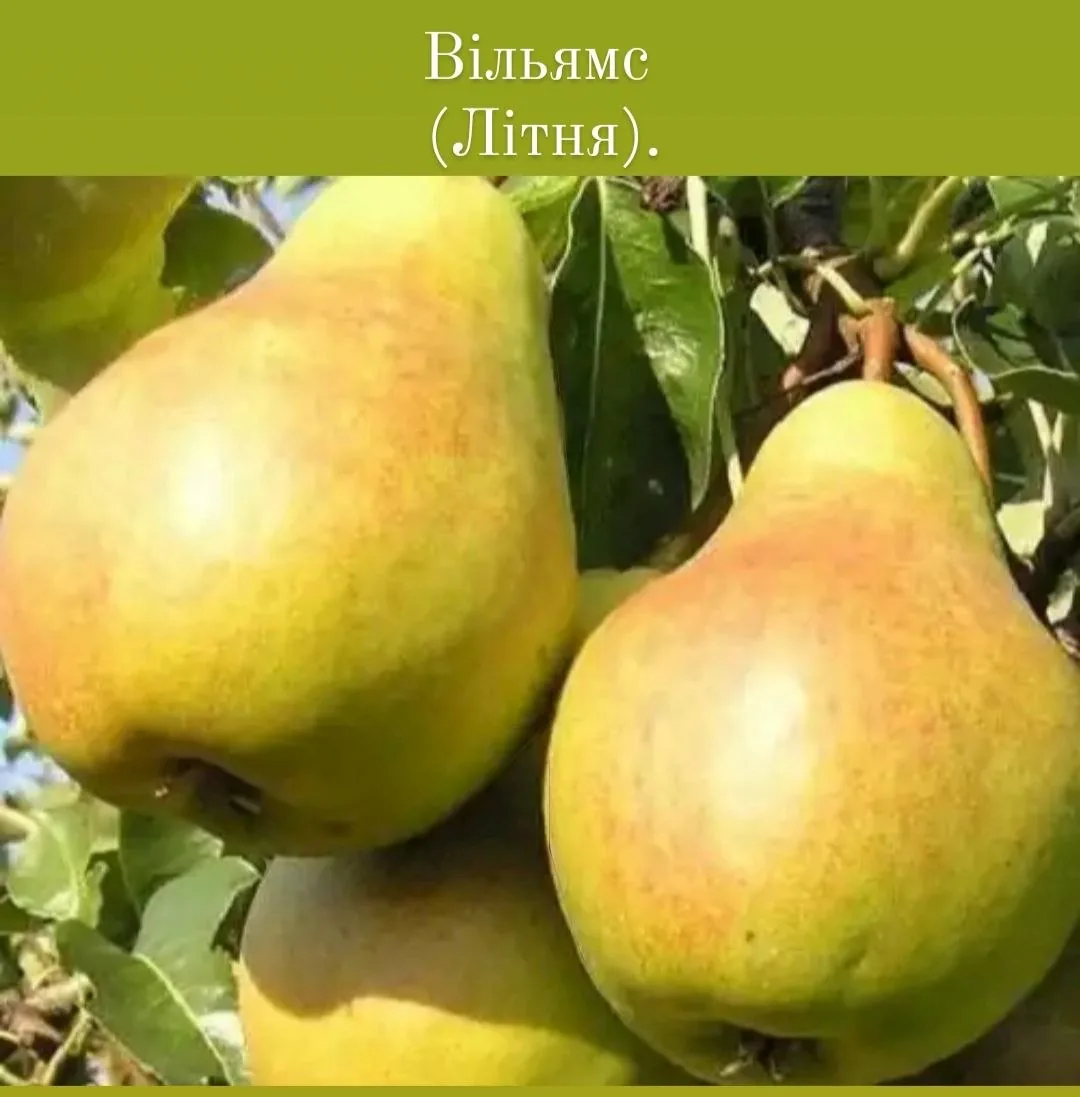
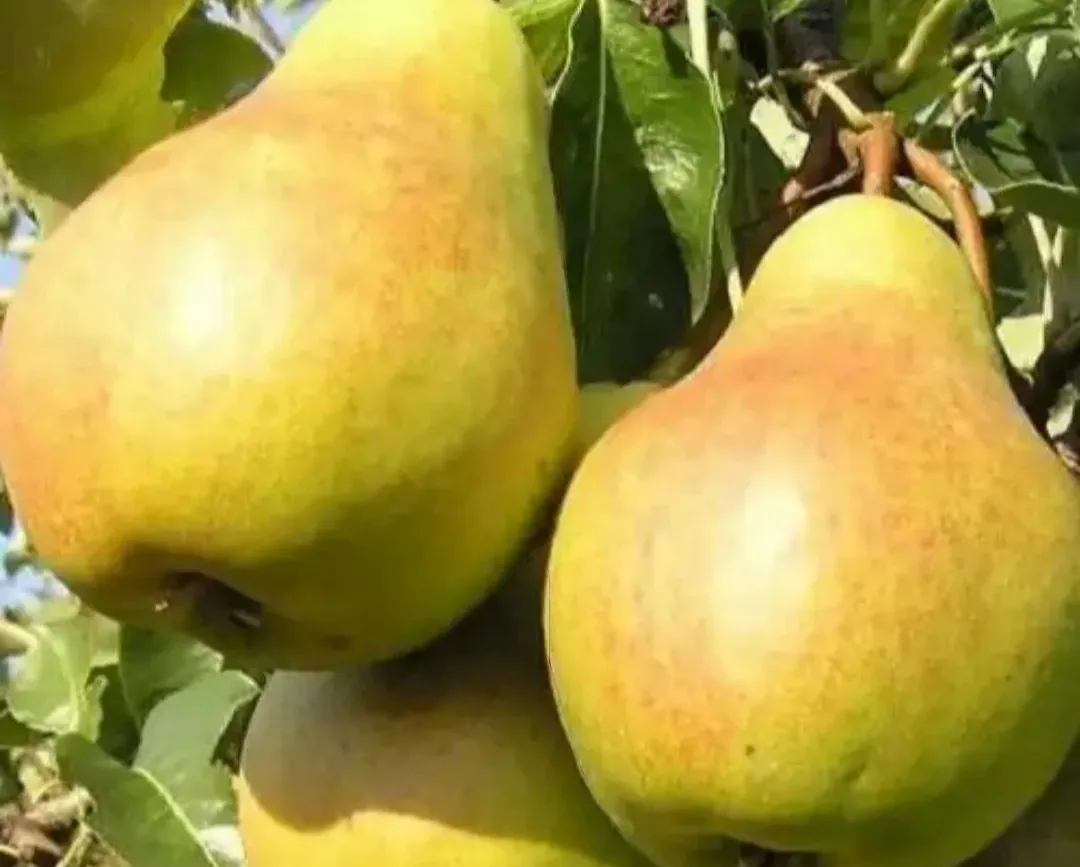
Trim title strips from pear photos and pch-6

diff --git a/catalog.js b/catalog.js
@@ -513,7 +513,7 @@ const CATALOG_DATA = {
       "desc": "Сорт з ніжним маслянистим десертним смаком і високою врожайністю.",
       "inStock": true,
       "badge": "100% СОРТОВИЙ",
-      "image": "images/products/customer_pear-1_photo_26_2026-11-20_23-57-47.webp?v=5"
+      "image": "images/products/customer_pear-1_photo_26_2026-11-20_23-57-47.webp?v=6"
     },
     {
       "id": "pear-2",
@@ -524,7 +524,7 @@ const CATALOG_DATA = {
       "desc": "Подовжені красиві плоди з яскравим рум’янцем. Хрустка, надзвичайно солодка.",
       "inStock": true,
       "badge": "100% СОРТОВИЙ",
-      "image": "images/products/customer_pear-2_photo_25_2026-11-20_23-57-47.webp?v=5"
+      "image": "images/products/customer_pear-2_photo_25_2026-11-20_23-57-47.webp?v=6"
     },
     {
       "id": "pear-3",
@@ -535,7 +535,7 @@ const CATALOG_DATA = {
       "desc": "Зимовий сорт відмінної транспортабельності. Зберігається до весни без втрати соковитості.",
       "inStock": true,
       "badge": "100% СОРТОВИЙ",
-      "image": "images/products/customer_pear-3_photo_24_2026-11-20_23-57-47.webp?v=5"
+      "image": "images/products/customer_pear-3_photo_24_2026-11-20_23-57-47.webp?v=6"
     },
     {
       "id": "pear-4",
@@ -546,7 +546,7 @@ const CATALOG_DATA = {
       "desc": "Італійський високоврожайний сорт з ніжною танучою кремовою м’якоттю.",
       "inStock": true,
       "badge": "100% СОРТОВИЙ",
-      "image": "images/products/customer_pear-4_photo_23_2026-11-20_23-57-47.webp?v=5"
+      "image": "images/products/customer_pear-4_photo_23_2026-11-20_23-57-47.webp?v=6"
     },
     {
       "id": "pear-5",
@@ -557,7 +557,7 @@ const CATALOG_DATA = {
       "desc": "Одна з найкращих зимових груш у світі. Великі плоди, маслянистий медовий смак.",
       "inStock": true,
       "badge": "100% СОРТОВИЙ",
-      "image": "images/products/customer_pear-5_photo_22_2026-11-20_23-57-47.webp?v=5"
+      "image": "images/products/customer_pear-5_photo_22_2026-11-20_23-57-47.webp?v=6"
     },
     {
       "id": "pear-6",
@@ -568,7 +568,7 @@ const CATALOG_DATA = {
       "desc": "Класична рання груша. Соковита, солодка, буквально тане в роті.",
       "inStock": true,
       "badge": "100% СОРТОВИЙ",
-      "image": "images/products/customer_pear-6_photo_21_2026-11-20_23-57-47.webp?v=5"
+      "image": "images/products/customer_pear-6_photo_21_2026-11-20_23-57-47.webp?v=6"
     },
     {
       "id": "pear-7",
@@ -579,7 +579,7 @@ const CATALOG_DATA = {
       "desc": "Пізньозимовий сорт для тривалого зберігання. Насичений солодкий смак.",
       "inStock": true,
       "badge": "100% СОРТОВИЙ",
-      "image": "images/products/customer_pear-7_photo_20_2026-11-20_23-57-47.webp?v=5"
+      "image": "images/products/customer_pear-7_photo_20_2026-11-20_23-57-47.webp?v=6"
     },
     {
       "id": "pear-8",
@@ -590,7 +590,7 @@ const CATALOG_DATA = {
       "desc": "Невибагливий ранній сорт. Жовті плоди з пікантним лимонним ароматом.",
       "inStock": true,
       "badge": "100% СОРТОВИЙ",
-      "image": "images/products/customer_pear-8_photo_19_2026-11-20_23-57-47.webp?v=5"
+      "image": "images/products/customer_pear-8_photo_19_2026-11-20_23-57-47.webp?v=6"
     },
     {
       "id": "pear-9",
@@ -601,7 +601,7 @@ const CATALOG_DATA = {
       "desc": "Еталон світового смаку груші Дюшес. Мускатний десертний аромат.",
       "inStock": true,
       "badge": "100% СОРТОВИЙ",
-      "image": "images/products/customer_pear-9_photo_18_2026-11-20_23-57-47.webp?v=5"
+      "image": "images/products/customer_pear-9_photo_18_2026-11-20_23-57-47.webp?v=6"
     },
     {
       "id": "pear-10",
@@ -612,7 +612,7 @@ const CATALOG_DATA = {
       "desc": "Старовинний французький сорт. Солодка щільна м’якоть, рясний урожай.",
       "inStock": true,
       "badge": "100% СОРТОВИЙ",
-      "image": "images/products/customer_pear-10_photo_15_2026-11-20_23-57-47.webp?v=5"
+      "image": "images/products/customer_pear-10_photo_15_2026-11-20_23-57-47.webp?v=6"
     },
     {
       "id": "pear-11",
@@ -623,7 +623,7 @@ const CATALOG_DATA = {
       "desc": "Відомий комерційний сорт. Стабільне регулярне плодоношення, дуже солодка.",
       "inStock": true,
       "badge": "100% СОРТОВИЙ",
-      "image": "images/products/customer_pear-11_photo_14_2026-11-20_23-57-47.webp?v=5"
+      "image": "images/products/customer_pear-11_photo_14_2026-11-20_23-57-47.webp?v=6"
     },
     {
       "id": "pear-12",
@@ -634,7 +634,7 @@ const CATALOG_DATA = {
       "desc": "Компактне деревце для невеликих садів. Великі смачні осінні плоди.",
       "inStock": true,
       "badge": "100% СОРТОВИЙ",
-      "image": "images/products/customer_pear-12_photo_17_2026-11-20_23-57-47.webp?v=5"
+      "image": "images/products/customer_pear-12_photo_17_2026-11-20_23-57-47.webp?v=6"
     },
     {
       "id": "pear-13",
@@ -645,7 +645,7 @@ const CATALOG_DATA = {
       "desc": "Займає мінімум місця (до 1 м ширини). Рясний медовий урожай.",
       "inStock": true,
       "badge": "100% СОРТОВИЙ",
-      "image": "images/products/customer_pear-13_photo_16_2026-11-20_23-57-47.webp?v=5"
+      "image": "images/products/customer_pear-13_photo_16_2026-11-20_23-57-47.webp?v=6"
     },
     {
       "id": "pear-14",
@@ -656,7 +656,7 @@ const CATALOG_DATA = {
       "desc": "Екзотична яблуко-груша (Наші). Хрустка, освіжаюча, неймовірно соковита.",
       "inStock": true,
       "badge": "100% СОРТОВИЙ",
-      "image": "images/products/customer_pear-14_photo_27_2026-11-20_23-57-47.webp?v=5"
+      "image": "images/products/customer_pear-14_photo_27_2026-11-20_23-57-47.webp?v=6"
     },
     {
       "id": "pear-15",
@@ -667,7 +667,7 @@ const CATALOG_DATA = {
       "desc": "Бронзова округла азіатська груша з ніжним екзотичним квітковим смаком.",
       "inStock": true,
       "badge": "100% СОРТОВИЙ",
-      "image": "images/products/customer_pear-15_photo_28_2026-11-20_23-57-47.webp?v=5"
+      "image": "images/products/customer_pear-15_photo_28_2026-11-20_23-57-47.webp?v=6"
     },
     {
       "id": "pch-1",
@@ -700,7 +700,7 @@ const CATALOG_DATA = {
       "desc": "Перевірений український сорт, чудово зимує в усіх регіонах України.",
       "inStock": true,
       "badge": "100% СОРТОВИЙ",
-      "image": "images/products/customer_pch-3_photo_44_2026-11-20_23-57-03.webp?v=5"
+      "image": "images/products/customer_pch-3_photo_44_2026-11-20_23-57-03.webp?v=6"
     },
     {
       "id": "pch-4",
@@ -711,7 +711,7 @@ const CATALOG_DATA = {
       "desc": "Американський сорт з насиченим кармінним рум’янцем та десертним ароматом.",
       "inStock": true,
       "badge": "100% СОРТОВИЙ",
-      "image": "images/products/customer_pch-4_photo_42_2026-11-20_23-57-03.webp?v=5"
+      "image": "images/products/customer_pch-4_photo_42_2026-11-20_23-57-03.webp?v=6"
     },
     {
       "id": "pch-5",
@@ -722,7 +722,7 @@ const CATALOG_DATA = {
       "desc": "Білом’якотний делікатесний персик без кислинки. Дуже ніжний і солодкий.",
       "inStock": true,
       "badge": "100% СОРТОВИЙ",
-      "image": "images/products/customer_pch-5_photo_41_2026-11-20_23-57-03.webp?v=5"
+      "image": "images/products/customer_pch-5_photo_41_2026-11-20_23-57-03.webp?v=6"
     },
     {
       "id": "pch-6",
@@ -733,7 +733,7 @@ const CATALOG_DATA = {
       "desc": "Світовий стандарт персика. Стабільний урожай, великі смачні плоди.",
       "inStock": true,
       "badge": "100% СОРТОВИЙ",
-      "image": "images/products/customer_pch-6_photo_1_2026-11-20_23-58-03.webp?v=5"
+      "image": "images/products/customer_pch-6_photo_1_2026-11-20_23-58-03.webp?v=6"
     },
     {
       "id": "pch-7",
@@ -744,7 +744,7 @@ const CATALOG_DATA = {
       "desc": "Ексклюзивний білий персик (прозоро-біла м’якоть) з вишуканим смаком.",
       "inStock": true,
       "badge": "100% СОРТОВИЙ",
-      "image": "images/products/customer_pch-7_photo_39_2026-11-20_23-57-03.webp?v=5"
+      "image": "images/products/customer_pch-7_photo_39_2026-11-20_23-57-03.webp?v=6"
     },
     {
       "id": "pch-8",
@@ -755,7 +755,7 @@ const CATALOG_DATA = {
       "desc": "Один із найбільш великоплідних персиків у світі (до 350 г і більше).",
       "inStock": true,
       "badge": "100% СОРТОВИЙ",
-      "image": "images/products/customer_pch-8_photo_38_2026-11-20_23-57-03.webp?v=5"
+      "image": "images/products/customer_pch-8_photo_38_2026-11-20_23-57-03.webp?v=6"
     },
     {
       "id": "pch-9",
@@ -766,7 +766,7 @@ const CATALOG_DATA = {
       "desc": "Канадський сорт найвищої дегустаційної оцінки. Стійкий до кучерявості листя.",
       "inStock": true,
       "badge": "100% СОРТОВИЙ",
-      "image": "images/products/customer_pch-9_photo_37_2026-11-20_23-57-03.webp?v=5"
+      "image": "images/products/customer_pch-9_photo_37_2026-11-20_23-57-03.webp?v=6"
     },
     {
       "id": "pch-10",
@@ -777,7 +777,7 @@ const CATALOG_DATA = {
       "desc": "Гармонійний кисло-солодкий смак, щільна м’якоть, висока транспортабельність.",
       "inStock": true,
       "badge": "100% СОРТОВИЙ",
-      "image": "images/products/customer_pch-10_photo_36_2026-11-20_23-57-03.webp?v=5"
+      "image": "images/products/customer_pch-10_photo_36_2026-11-20_23-57-03.webp?v=6"
     },
     {
       "id": "pch-11",
@@ -788,7 +788,7 @@ const CATALOG_DATA = {
       "desc": "Плоский дисковидний персик з маленькою кісточкою. Медово-солодкий.",
       "inStock": true,
       "badge": "100% СОРТОВИЙ",
-      "image": "images/products/customer_pch-11_photo_34_2026-11-20_23-57-03.webp?v=5"
+      "image": "images/products/customer_pch-11_photo_34_2026-11-20_23-57-03.webp?v=6"
     },
     {
       "id": "pch-12",
@@ -799,7 +799,7 @@ const CATALOG_DATA = {
       "desc": "Гладкий глянцевий нектарин з твердою солодкою м’якоттю пізнього строку.",
       "inStock": true,
       "badge": "100% СОРТОВИЙ",
-      "image": "images/products/customer_pch-12_photo_28_2026-11-20_23-57-03.webp?v=5"
+      "image": "images/products/customer_pch-12_photo_28_2026-11-20_23-57-03.webp?v=6"
     },
     {
       "id": "pch-13",
@@ -810,7 +810,7 @@ const CATALOG_DATA = {
       "desc": "Яскраво-червоний нектарин з ароматною танучою м’якоттю без опушення.",
       "inStock": true,
       "badge": "100% СОРТОВИЙ",
-      "image": "images/products/customer_pch-13_photo_32_2026-11-20_23-57-03.webp?v=5"
+      "image": "images/products/customer_pch-13_photo_32_2026-11-20_23-57-03.webp?v=6"
     },
     {
       "id": "pch-14",
@@ -821,7 +821,7 @@ const CATALOG_DATA = {
       "desc": "Компактний сорт для балкона або вузьких грядок. Солодкі плоди.",
       "inStock": true,
       "badge": "100% СОРТОВИЙ",
-      "image": "images/products/customer_pch-14_photo_30_2026-11-20_23-57-03.webp?v=5"
+      "image": "images/products/customer_pch-14_photo_30_2026-11-20_23-57-03.webp?v=6"
     },
     {
       "id": "pch-15",
@@ -832,7 +832,7 @@ const CATALOG_DATA = {
       "desc": "Стовбурове мініатюрне деревце з великими смачними персиками.",
       "inStock": true,
       "badge": "100% СОРТОВИЙ",
-      "image": "images/products/customer_pch-15_photo_31_2026-11-20_23-57-03.webp?v=5"
+      "image": "images/products/customer_pch-15_photo_31_2026-11-20_23-57-03.webp?v=6"
     },
     {
       "id": "apr-1",

diff --git a/index.html b/index.html
@@ -611,7 +611,7 @@
   </div>
 
   <!-- СКРИПТИ -->
-  <script src="catalog.js?v=2026.4.0"></script>
+  <script src="catalog.js?v=2026.4.3"></script>
   <script src="app.js?v=2026.4.2"></script>
 </body>
 </html>
